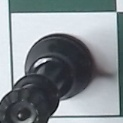
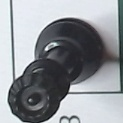
finished collecting training data for white rook

diff --git a/brain.py b/brain.py
@@ -60,7 +60,7 @@ def initBoard():
     counter = 1
     coordinates = [
         ((500, 623), (22, 136)), ((510, 633), (139, 253)), ((514, 637), (252, 366)), ((525, 648), (364, 478)),
-        ((529, 652), (472, 586)), ((529, 652), (580, 694)), ((530, 653), (690, 804)), ((533, 656), (799, 913)),
+        ((529, 652), (472, 586)), ((529, 652), (580, 694)), ((530, 653), (690, 804)), ((533, 656), (823, 937)),
         ((628, 751), (24, 138)), ((630, 753), (137, 251)), ((635, 758), (251, 365)), ((635, 758), (366, 480)),
         ((640, 763), (474, 588)), ((640, 763), (584, 698)), ((643, 766), (692, 806)), ((643, 766), (799, 913)),
         ((740, 863), (22, 136)), ((743, 866), (137, 251)), ((744, 867), (251, 365)), ((748, 871), (363, 477)),
@@ -212,7 +212,7 @@ def main():
                     square.saveImage(squares)
                 return
                 '''
-                collect2PData(board, squares, 63, 63, "black", "king", 8, 8)
+                collect2PData(board, squares, 62, 63, "white", "rook", 8, 7)
                 #collectData(board, squares)
                 cv2.imshow("Frame", squares[22:136, 517:640])
                 if cv2.waitKey(1) & 0xFF == ord('q'):
